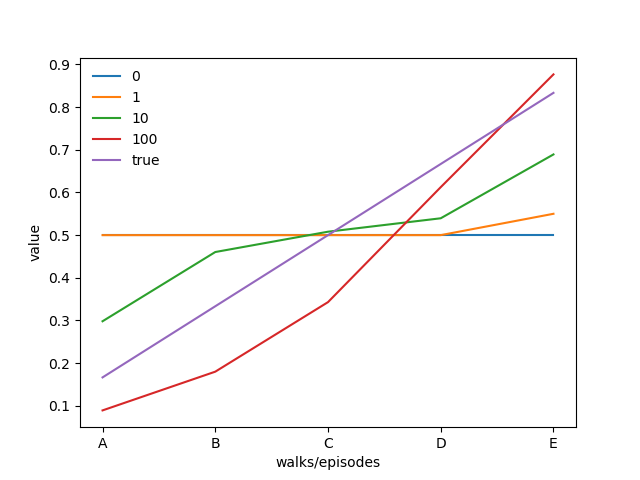
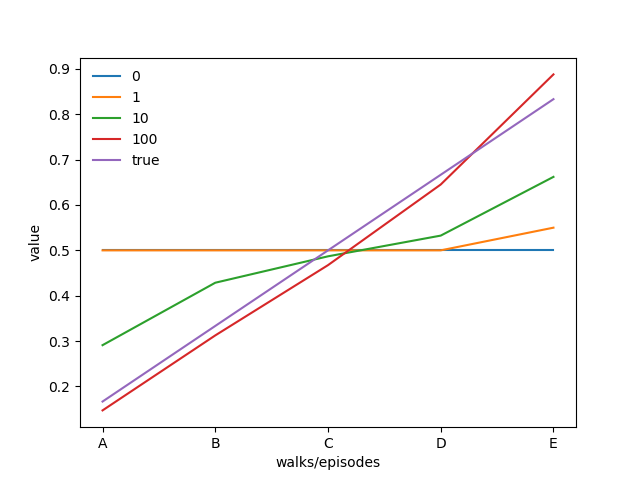
optimal of td

diff --git a/chap6/random_walk.py b/chap6/random_walk.py
@@ -28,8 +28,9 @@ import random
 import numpy as np
 import matplotlib.pyplot as plt
 import copy
+from tqdm import tqdm
 
-def mc_predict(value, alpha):
+def mc_predict(value, alpha, batch=False):
     s = 3
     g = 0.0
     states = [s]
@@ -44,45 +45,122 @@ def mc_predict(value, alpha):
             r = 1.0
         g = 1.0 * g + r
         s = ns
-    for s in states:
-        value[s] += alpha*(g - value[s])
-    return value
+    if not batch:
+        for s in states:
+            value[s] += alpha*(g - value[s])
+        return None, None
+    return states, g * np.ones_like(states)
 
-def td_predict(value, alpha):
+def td_predict(value, alpha, batch=False):
     s = 3
+    states = list()
     while s != 0 and s != 6:
         a = -1 
         if np.random.binomial(1, 0.5) == 1.0:
             a = 1
         ns = s + a
         r = 0.0
-        value[s] += alpha*(r + 1.0 * value[ns] - value[s])
+        if not batch:
+            value[s] += alpha*(r + 1.0 * value[ns] - value[s])
+        else:
+            states.append(ns)
         s = ns
-    return value
+    if not batch:
+        return None
+    else:
+        return states, np.zeros_like(states)
+
+def batch_mc_err(alpha):
+    count = 101
+    true_value = np.array([0, 1/6, 2/6, 3/6, 4/6, 5/6, 1.0])    
+    errs = np.zeros(count)
+    for _ in tqdm(range(100)):
+        e = list()
+        value = np.zeros(7) + 0.5
+        value[6] = 1.0
+        value[0] = 0.0
+        states = list()
+        increments = list()
+        for _ in range(count):
+            e.append(np.sqrt(np.sum(np.power(value - true_value, 2))/5))
+            ss, incre = mc_predict(value, alpha, True)
+            states.append(ss)
+            increments.append(incre)
+            while True:
+                upd = np.zeros(7)
+                for i, ss in enumerate(states):
+                    incre = increments[i]
+                    for j in range(len(ss)-1):
+                        s = ss[j]
+                        inc = incre[j]
+                        upd[s] += inc - value[s]
+                upd *= alpha
+                if np.sum(np.abs(upd)) < 1e-3:
+                    break
+                value += upd 
+        errs += np.asarray(e)
+    return errs / 100
 
 def mc_err(alpha):
     count = 101
     true_value = np.array([0, 1/6, 2/6, 3/6, 4/6, 5/6, 1.0])    
-    value = np.zeros(7) + 0.5
-    value[6] = 1.0
-    value[0] = 0.0
-    errs = list()
-    for _ in range(count):
-        value = mc_predict(value, alpha)
-        errs.append(np.mean(np.power(value - true_value, 2)))
-    return errs
+    errs = np.zeros(101)
+    for _ in range(100):
+        e = list()
+        value = np.zeros(7) + 0.5
+        value[6] = 1.0
+        value[0] = 0.0
+        for _ in range(count):
+            e.append(np.sqrt(np.sum(np.power(value - true_value, 2))/5))
+            mc_predict(value, alpha)
+        errs += np.asarray(e)
+    return errs / 100        
 
+def batch_td_err(alpha):
+    count = 101
+    true_value = np.array([0, 1/6, 2/6, 3/6, 4/6, 5/6, 1.0])    
+    errs = np.zeros(count)
+    for _ in tqdm(range(100)):
+        e = list()
+        value = np.zeros(7) + 0.5
+        value[6] = 1.0
+        value[0] = 0.0
+        states = list()
+        increments = list()
+        for _ in range(count):
+            e.append(np.sqrt(np.sum(np.power(value - true_value, 2))/5))
+            ss, incre = td_predict(value, alpha, True)
+            states.append(ss)
+            increments.append(incre)
+            while True:
+                upd = np.zeros(7)
+                for i, ss in enumerate(states):
+                    incre = increments[i]
+                    for j in range(len(ss)-1):
+                        s = ss[j]
+                        inc = incre[j]
+                        upd[s] += inc + value[ss[j+1]] - value[s]
+                upd *= alpha
+                if np.sum(np.abs(upd)) < 1e-3:
+                    break
+                value += upd 
+        errs += np.asarray(e)
+    return errs / 100
+    
 def td_err(alpha):
     count = 101
     true_value = np.array([0, 1/6, 2/6, 3/6, 4/6, 5/6, 1.0])    
-    value = np.zeros(7) + 0.5
-    value[6] = 1.0
-    value[0] = 0.0
-    errs = list()
-    for _ in range(count):
-        value = td_predict(value, alpha)
-        errs.append(np.mean(np.power(value - true_value, 2)))
-    return errs
+    errs = np.zeros(101)
+    for _ in range(100):
+        e = list()
+        value = np.zeros(7) + 0.5
+        value[6] = 1.0
+        value[0] = 0.0
+        for _ in range(count):
+            e.append(np.sqrt(np.sum(np.power(value - true_value, 2))/5))
+            td_predict(value, alpha)
+        errs += np.asarray(e)
+    return errs / 100
 
 def mc_value():
     count = 101
@@ -94,7 +172,7 @@ def mc_value():
     for i in range(count):
         if i in episodes:
             values.append(copy.deepcopy(value[1:6]))
-        value = mc_predict(value, 0.1)
+        mc_predict(value, 0.1)
     return values
 
 def td_value():
@@ -107,9 +185,8 @@ def td_value():
     for i in range(count):
         if i in episodes:
             values.append(copy.deepcopy(value[1:6]))
-        value = td_predict(value, 0.1)
+        td_predict(value, 0.1)
     return values
-
 
 def image_err(x, y, l):
     plt.subplot(1, 1, 1)
@@ -122,6 +199,16 @@ def image_err(x, y, l):
     plt.ylabel('averaged error')
     plt.legend(loc='upper right', frameon=False)
     plt.savefig('./walk_error.png')
+    plt.close()
+
+def image_batch_err(x, y, l):
+    plt.subplot(1, 1, 1)
+    for i, e in enumerate(y):
+        plt.plot(x, e, label=l[i])
+    plt.xlabel('walks/episodes')
+    plt.ylabel('averaged error')
+    plt.legend(loc='upper right', frameon=False)
+    plt.savefig('./batch_error.png')
     plt.close()
 
 def image_value(x, y, l):
@@ -140,6 +227,9 @@ def main():
     v.append(np.array([1/6, 2/6, 3/6, 4/6, 5/6]))
     image_err(range(101), e, ['td_alpha=0.05', 'td_alpha=0.1', 'td_alpha=0.15', 'mc_alpha=0.01', 'mc_alpha=0.02', 'mc_alpha=0.03'])
     image_value(['A', 'B', 'C', 'D', 'E'], v, ['0', '1', '10', '100', 'true'])
+
+    e = [batch_td_err(0.001), batch_mc_err(0.001)]
+    image_batch_err(range(101), e, ['td_alpha=0.001', 'mc_alpha=0.001'])
     
 if __name__ == "__main__":
     main()
